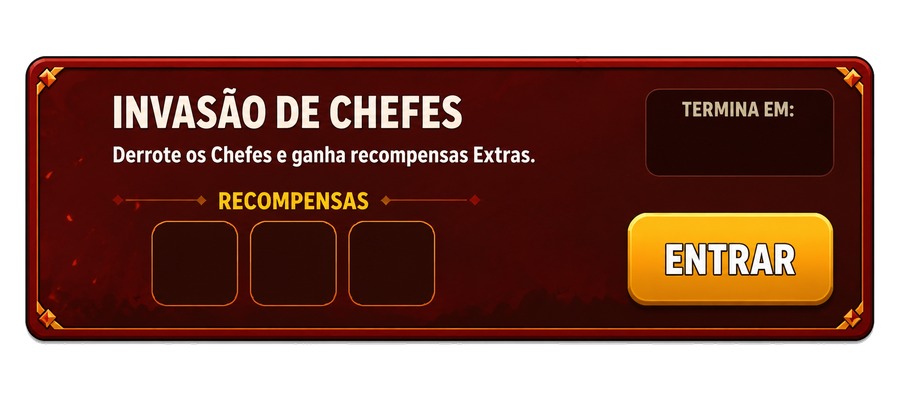
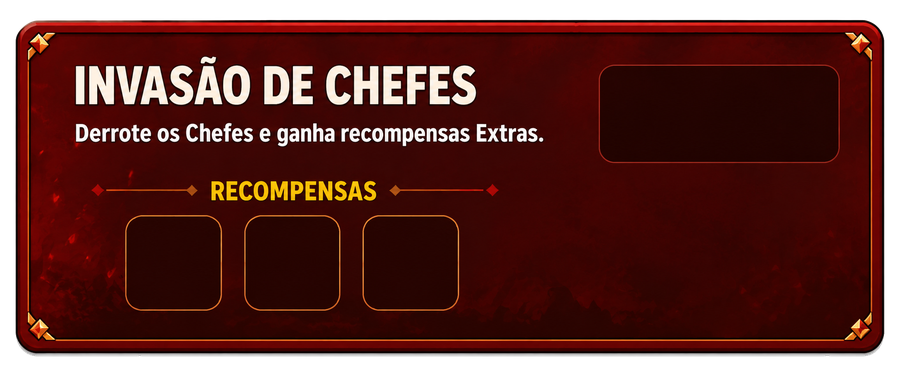
Invasão de Chefes: nova arte, sem expansão, status Abre/Fecha em e luta em painel separado
Troca a arte do card (Evento2.png) e remove a expansão/recolhimento — o
card agora é fixo, mostrando 'Abre em:'/'Fecha em:' no espaço vazio da
direita e o botão Entrar reaparecendo ali embaixo quando a janela está
aberta. Ao entrar, a luta passa a aparecer num painel separado abaixo do
card, não mais dentro dele.

diff --git a/idle-hunter/js/ui/render.js b/idle-hunter/js/ui/render.js
@@ -762,116 +762,63 @@ function eventListItemHtml(id, icon, name, statusLine, expanded, bodyHtml, theme
   </div>`;
 }
 
-// Caça Aprimorada has 4 distinct states to render — see systems/events.js
-// for the lifecycle (canEnterEvent/startEvent), same shape as the Torre
-// Infinita's window/entered/active-run/claimed states:
-//   1. a fight is already in progress (eventBossHp != null) — shows no
-//      matter whether the entry window itself is still open, since the
-//      fight has no clock of its own once entered;
-//   2. this cycle's window was already claimed (won) — done until next;
-//   3. the window isn't open right now — countdown to the next one;
-//   4. the window IS open and not yet entered — the "Entrar" button (or,
-//      if the player hasn't beaten a first boss yet, a note that they need
-//      to reach stage 10 before this event does anything for them).
-function cacaAprimoradaContentHtml(state) {
-  if (state.eventBossHp != null) {
-    const boss = BOSSES.find((b) => b.id === state.eventBossId);
-    if (!boss) return `<div class="event-panel"><p class="event-sub">Chefe do evento não encontrado — tente recarregar.</p></div>`;
-    const maxHp = state.eventBossMaxHp ?? computeEventBossMaxHp(boss);
-    const hp = state.eventBossHp ?? maxHp;
-    const pct = maxHp > 0 ? Math.max(0, Math.min(100, (hp / maxHp) * 100)) : 0;
-    return `
-      <div class="event-panel">
-        <div class="event-active-badge">🎪 Em combate!</div>
-        <h3>${boss.name} <span class="boss-tag">EVENTO</span> ${elementBadgeHtml(boss.element)}</h3>
-        <button id="event-boss-sprite" class="event-boss-sprite" title="Clique para atacar">${iconMarkup(boss.image, boss.emoji, boss.name)}</button>
-        <div class="event-hp-bar-outer"><div class="event-hp-bar-fill" style="width:${pct}%"></div><span class="event-hp-bar-text">${formatNumber(hp)} / ${formatNumber(maxHp)}</span></div>
-        <p class="event-reward-info">🎁 10 itens ao derrotar (materiais/Cristal) + chance de Carta + 🎫 Moeda de Evento</p>
-      </div>`;
-  }
-
-  const win = getEventWindow();
-  if (isEventClaimed(state, win.cycleIndex)) {
-    return `
-      <div class="event-panel">
-        <div class="event-icon dim">🎪</div>
-        <h3>Evento concluído!</h3>
-        <p class="event-sub">Você já derrotou o chefe de evento deste ciclo.</p>
-        <p class="event-next">Próxima janela em <strong>${formatDuration(win.msUntilNextWindow)}</strong></p>
-      </div>`;
-  }
-
-  if (!win.active) {
-    return `
-      <div class="event-panel">
-        <div class="event-icon dim">🎪</div>
-        <h3>Nenhum evento ativo agora</h3>
-        <p class="event-sub">Volte quando a próxima janela abrir.</p>
-        <p class="event-next">Próxima janela em <strong>${formatDuration(win.msUntilNextWindow)}</strong></p>
-      </div>`;
-  }
-
-  if (state.eventEnteredCycle === win.cycleIndex) {
-    return `
-      <div class="event-panel">
-        <div class="event-icon dim">🎪</div>
-        <h3>Você já usou esta janela</h3>
-        <p class="event-next">Próxima janela em <strong>${formatDuration(win.msUntilNextWindow)}</strong></p>
-      </div>`;
-  }
-
-  if (!BOSSES.some((b) => b.stage <= state.maxStage)) {
-    return `
-      <div class="event-panel">
-        <div class="event-active-badge">🎪 Janela aberta — fecha em ${formatDuration(win.remainingActiveMs)}</div>
-        <h3>Invasão de Chefes</h3>
-        <p class="event-sub">Alcance o estágio 10 (derrote seu primeiro chefe) para poder participar.</p>
-      </div>`;
-  }
-
-  return `
-    <div class="event-panel">
-      <div class="event-active-badge">🎪 Janela aberta — fecha em ${formatDuration(win.remainingActiveMs)}</div>
-      <h3>Invasão de Chefes</h3>
-      <p class="event-sub">Um chefe aleatório, dentre os que você já alcançou, aparece assim que você entra — e a luta já começa valendo.</p>
-      <button class="forge-toggle-btn" data-event-enter>Entrar</button>
-    </div>`;
-}
-
-function cacaAprimoradaStatusLine(state) {
-  if (state.eventBossHp != null) return '🎪 Em combate!';
-  const win = getEventWindow();
-  if (isEventClaimed(state, win.cycleIndex)) return `✅ Concluído · próxima janela em ${formatDuration(win.msUntilNextWindow)}`;
-  if (win.active && state.eventEnteredCycle !== win.cycleIndex) return '🎪 Janela aberta!';
-  return `Próxima janela em ${formatDuration(win.msUntilNextWindow)}`;
-}
-
-// Countdown shown inside the "TERMINA EM:" box baked into invasao-banner.png
-// (see invasaoChefesHeaderHtml) — time left in the open window if it's open
-// right now, otherwise time until the next window opens.
-function cacaAprimoradaCountdownText(state) {
-  if (state.eventBossHp != null) return 'Em combate';
+// Invasão de Chefes ("Caça Aprimorada" under the hood, see systems/events.js
+// for the canEnterEvent/startEvent lifecycle): a fixed, non-expandable
+// banner (invasao-banner.png, see invasaoChefesBannerHtml) showing the
+// open/closed status and, when open, a real "Entrar" button. Once entered,
+// the fight itself renders in a separate panel below the banner
+// (invasaoChefesFightPanelHtml) — not nested inside/expanding from the
+// banner card, per the user's "outra janela" request.
+function invasaoChefesStatusText(state) {
   const win = getEventWindow();
   if (win.active && state.eventEnteredCycle !== win.cycleIndex && !isEventClaimed(state, win.cycleIndex)) {
-    return formatDuration(win.remainingActiveMs);
+    return `Fecha em: ${formatDuration(win.remainingActiveMs)}`;
   }
-  return formatDuration(win.msUntilNextWindow);
+  return `Abre em: ${formatDuration(win.msUntilNextWindow)}`;
 }
 
-// Test pass: the user supplied a full mockup (invasao-banner.png) for this
-// event's card — title/subtitle/rewards frame/countdown box/Entrar button
-// all baked into the art. Only the countdown value is overlaid live; the
-// baked "ENTRAR" button is decorative for now (not wired), and the real
-// interactive Entrar button + fight state still live in the expandable
-// body below (cacaAprimoradaContentHtml), toggled via the chevron.
-function invasaoChefesHeaderHtml(id, expanded, countdownText, bodyHtml) {
+// Whether the "Entrar" button should show below the status box: window
+// open, not already used/claimed this cycle, not already fighting, and the
+// player has beaten at least one boss (stage 10+) so there's an eligible
+// boss to roll.
+function invasaoChefesCanEnter(state) {
+  if (state.eventBossHp != null) return false;
+  const win = getEventWindow();
+  if (!win.active) return false;
+  if (isEventClaimed(state, win.cycleIndex)) return false;
+  if (state.eventEnteredCycle === win.cycleIndex) return false;
+  return BOSSES.some((b) => b.stage <= state.maxStage);
+}
+
+function invasaoChefesBannerHtml(state) {
+  const statusText = invasaoChefesStatusText(state);
+  const canEnter = invasaoChefesCanEnter(state);
   return `<div class="event-card event-card-invasion">
-    <div class="invasion-banner" data-toggle-event="${id}" style="background-image: url('assets/ui/invasao-banner.png')">
-      <span class="invasion-countdown-value">${countdownText}</span>
-      <button class="event-card-toggle invasion-toggle" data-toggle-event="${id}">${expanded ? '▲' : '▼'}</button>
+    <div class="invasion-banner" style="background-image: url('assets/ui/invasao-banner.png')">
+      <div class="invasion-status-box"><span class="invasion-status-text">${statusText}</span></div>
+      ${canEnter ? `<button class="invasion-enter-btn" data-event-enter>Entrar</button>` : ''}
     </div>
-    ${expanded ? `<div class="event-card-body">${bodyHtml}</div>` : ''}
   </div>`;
+}
+
+function invasaoChefesFightPanelHtml(state) {
+  const boss = BOSSES.find((b) => b.id === state.eventBossId);
+  if (!boss) return `<div class="event-card"><div class="event-card-body"><div class="event-panel"><p class="event-sub">Chefe do evento não encontrado — tente recarregar.</p></div></div></div>`;
+  const maxHp = state.eventBossMaxHp ?? computeEventBossMaxHp(boss);
+  const hp = state.eventBossHp ?? maxHp;
+  const pct = maxHp > 0 ? Math.max(0, Math.min(100, (hp / maxHp) * 100)) : 0;
+  return `
+    <div class="event-card">
+      <div class="event-card-body">
+        <div class="event-panel">
+          <div class="event-active-badge">🎪 Em combate!</div>
+          <h3>${boss.name} <span class="boss-tag">EVENTO</span> ${elementBadgeHtml(boss.element)}</h3>
+          <button id="event-boss-sprite" class="event-boss-sprite" title="Clique para atacar">${iconMarkup(boss.image, boss.emoji, boss.name)}</button>
+          <div class="event-hp-bar-outer"><div class="event-hp-bar-fill" style="width:${pct}%"></div><span class="event-hp-bar-text">${formatNumber(hp)} / ${formatNumber(maxHp)}</span></div>
+          <p class="event-reward-info">🎁 10 itens ao derrotar (materiais/Cristal) + chance de Carta + 🎫 Moeda de Evento</p>
+        </div>
+      </div>
+    </div>`;
 }
 
 function tradeMaterialCardHtml(state, group, mat, tradeFromMaterialId, tradeQty) {
@@ -1024,7 +971,8 @@ export function renderEventsTab(state, expandedEvents = new Set(), tradeFromMate
   container.innerHTML = `
     <div class="section-banner">Eventos</div>
     <div class="event-list">
-    ${invasaoChefesHeaderHtml('caca', expandedEvents.has('caca'), cacaAprimoradaCountdownText(state), cacaAprimoradaContentHtml(state))}
+    ${invasaoChefesBannerHtml(state)}
+    ${state.eventBossHp != null ? invasaoChefesFightPanelHtml(state) : ''}
     ${eventListItemHtml('mercador', '🧺', 'Mercador', mercadorStatusLine(state), expandedEvents.has('mercador'), mercadorContentHtml(state, tradeFromMaterialId, expandedTradeGroups, tradeQty), 'gold')}
     ${eventListItemHtml('torre', '🗼', 'Torre Infinita', towerStatusLine(state), expandedEvents.has('torre'), towerContentHtml(state, towerRunRemainingMs, towerHp, towerMaxHp), 'purple')}
   </div>`;

diff --git a/idle-hunter/css/style.css b/idle-hunter/css/style.css
@@ -1680,10 +1680,13 @@ button:disabled {
   padding: 14px;
 }
 
-/* Invasão de Chefes: real mockup art (invasao-banner.png) as the card
-   header instead of the CSS gradient + emoji used by the other events —
-   see invasaoChefesHeaderHtml in ui/render.js. Only the countdown value is
-   overlaid live, positioned over the art's baked-in "TERMINA EM:" box. */
+/* Invasão de Chefes: real mockup art (invasao-banner.png) as a fixed,
+   non-expandable card — title/subtitle/rewards frame all baked in — see
+   invasaoChefesBannerHtml in ui/render.js. Only the status text (open/
+   closed countdown) and, when open, the "Entrar" button are overlaid live
+   in the art's empty right-hand box. The fight itself, once entered,
+   renders in a separate panel below (invasaoChefesFightPanelHtml), not
+   nested inside this card. */
 .event-card-invasion {
   border: none;
   box-shadow: none;
@@ -1692,29 +1695,40 @@ button:disabled {
 
 .invasion-banner {
   position: relative;
-  aspect-ratio: 900 / 396;
+  aspect-ratio: 900 / 374;
   background-size: 100% 100%;
   background-repeat: no-repeat;
-  cursor: pointer;
 }
 
-.invasion-countdown-value {
+.invasion-status-box {
   position: absolute;
-  left: 84.5%;
-  top: 39%;
+  left: 80%;
+  top: 30%;
   transform: translate(-50%, -50%);
   width: 27%;
   text-align: center;
-  font-size: clamp(9px, 3.2vw, 14px);
+}
+
+.invasion-status-text {
+  font-size: clamp(9px, 3vw, 13px);
   font-weight: 800;
   color: #f3ddb8;
   text-shadow: 0 1px 2px rgba(0, 0, 0, .5);
 }
 
-.invasion-toggle {
+.invasion-enter-btn {
   position: absolute;
-  right: 2%;
-  top: 4%;
+  left: 80%;
+  top: 52%;
+  transform: translateX(-50%);
+  width: 25%;
+  padding: 8px 4px;
+  font-size: clamp(10px, 3vw, 13px);
+  border-radius: 10px;
+  background: var(--grad-gold);
+  border: 2px solid var(--gold-dark);
+  color: #4a2f00;
+  box-shadow: 0 3px 0 var(--gold-dark);
 }
 
 .trade-card.selected {

diff --git a/idle-hunter/js/main.js b/idle-hunter/js/main.js
@@ -597,7 +597,7 @@ function wireForgeTabEvents() {
 function enterEvent() {
   const boss = startEvent(state);
   if (!boss) return;
-  showToast(`🎪 Você entrou na Caça Aprimorada! Enfrentando ${boss.name}.`);
+  showToast(`🎪 Você entrou na Invasão de Chefes! Enfrentando ${boss.name}.`);
   renderEventsTabNow();
   renderTopBar(state);
 }
